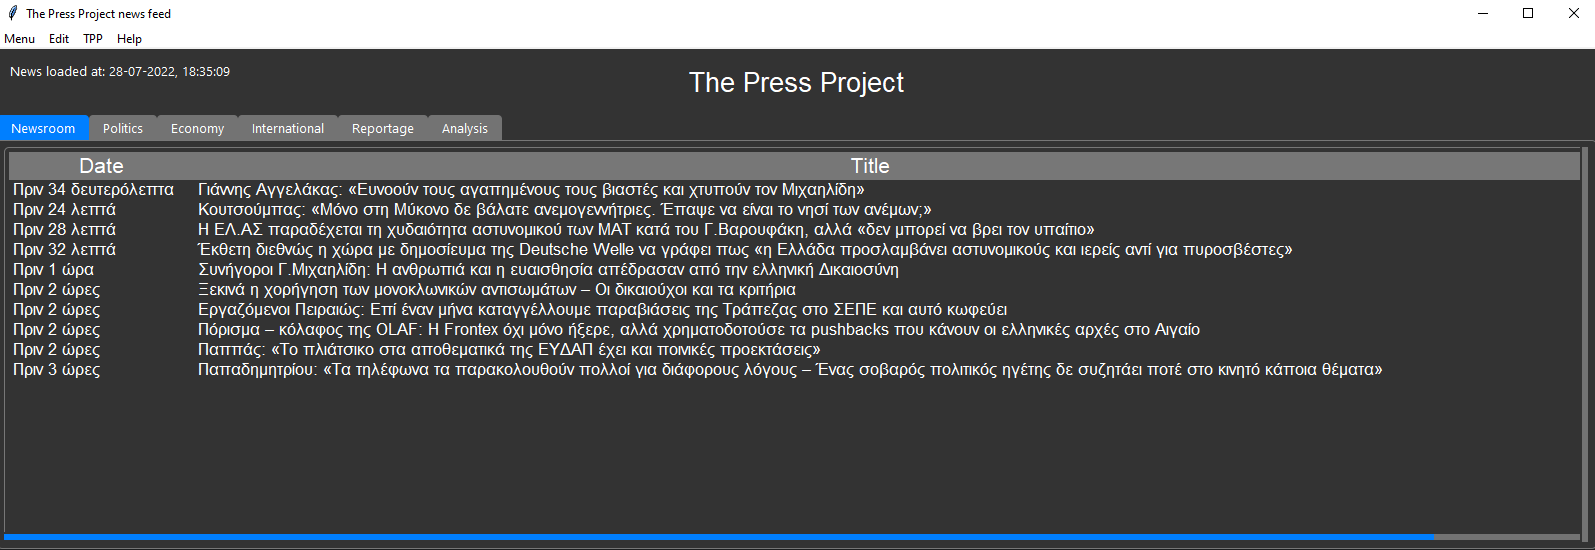
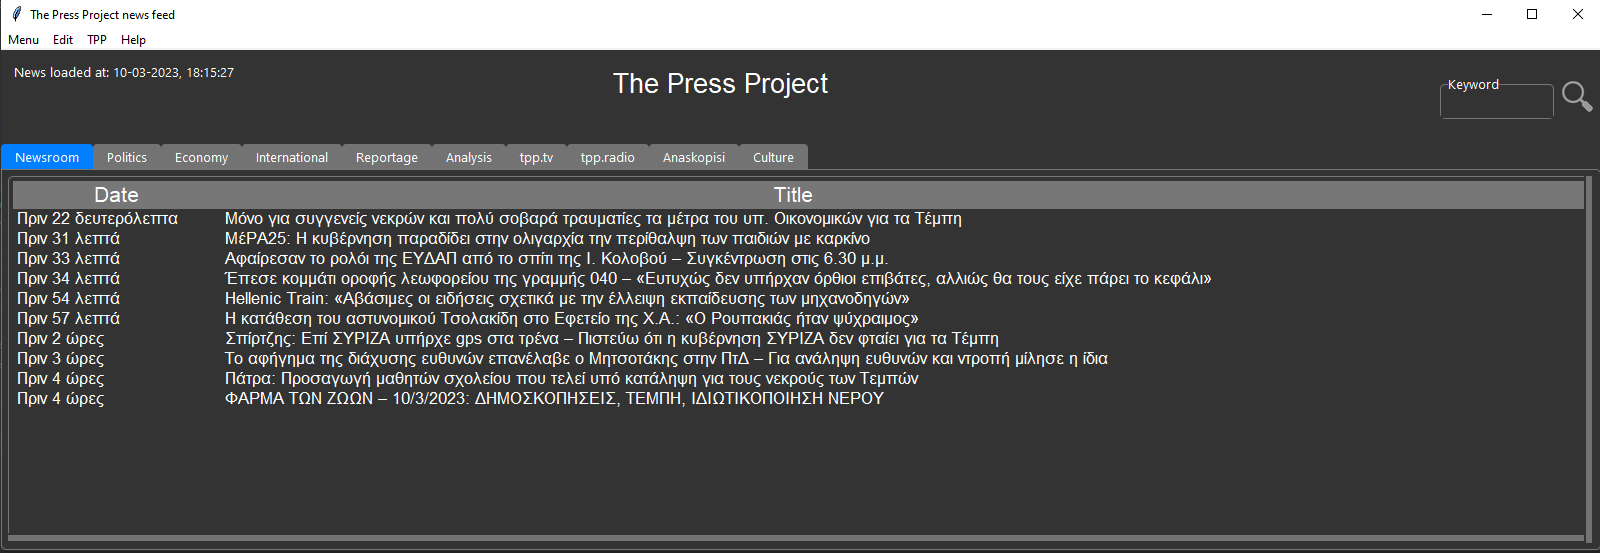
update readme

diff --git a/README.md b/README.md
@@ -89,17 +89,17 @@ You should also convert updater.py to updater.exe to use **check for updates** c
 
     *   [x] Let the user whether to autosave or not
 
-    *   [ ] Create a toplevel window containing all the news from
+    *   [x] Create a toplevel window containing all the news from
         the database
 
-        *   [ ] Add search option based on date (Greek format DD-MM-YY)
+        *   [x] Add search option based on date (Greek format DD-MM-YY)
 
-        *   [ ] Add advanced search (author, category, date)
+        *   [x] Add advanced search (author, category, date)
 
 *   Code refactoring
-	* [ ] Move the files from ./classes to ./source/classes dir & consequently, fix the paths for the rest of the code
-	* [ ] Move images to source
-	* [ ] Rename the camelCase/PascalCase .py files to snake_case style.
+	* [x] Move the files from ./classes to ./source/classes dir & consequently, fix the paths for the rest of the code
+	* [x] Move images to source
+	
 
 ## Credits
 
